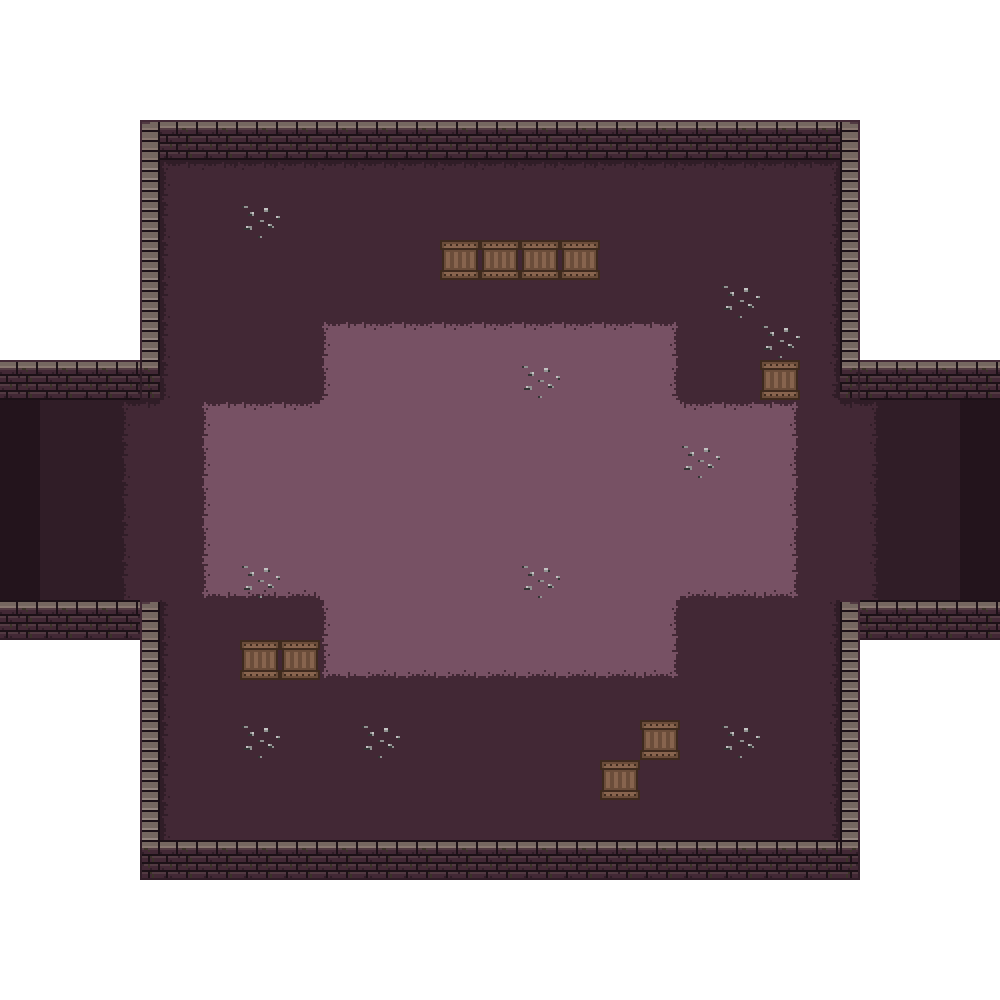
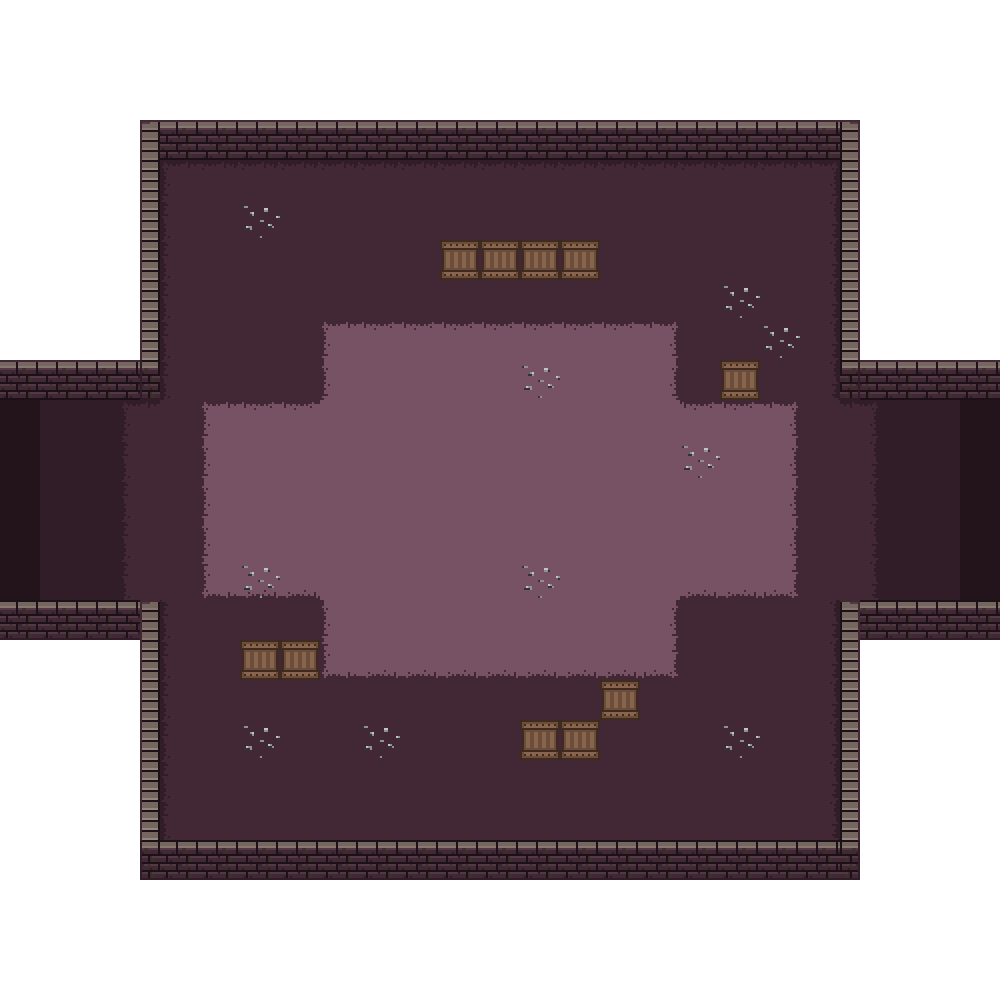
agrega hitboxes a las cajas de los mapas

Changed region(s): [[0.527, 0.682, 0.682, 0.806], [0.713, 0.341, 0.806, 0.403]]

diff --git a/core/src/main/java/mapas/SalaUD.java b/core/src/main/java/mapas/SalaUD.java
@@ -21,10 +21,15 @@ public class SalaUD extends Sala {
 		agregarObstaculo(0, 0, 160, 1000); //izquierda
 		agregarObstaculo(0, 0, 400, 160); //abajo1
 		agregarObstaculo(600, 0, 1000, 160); //abajo2
-		agregarEnemigos(new Enemigo(700, 500));
+		agregarEnemigos(new Enemigo(700, 300));
 		agregarEnemigos(new Enemigo(700, 400));
-		agregarEnemigos(new Enemigo(700, 600));
-		agregarEnemigos(new Enemigo(700, 700));
+		agregarEnemigos(new Enemigo(300, 300));
+		agregarEnemigos(new Enemigo(600, 350));
+		agregarObstaculo(400, 680, 40, 40);
+		agregarObstaculo(240, 480, 40, 40);
+		agregarObstaculo(280, 440, 40, 40);
+		agregarObstaculo(600, 240, 160, 40);
+		agregarObstaculo(720, 560, 40, 80);
 	}
 
 	@Override

diff --git a/core/src/main/java/mapas/SalaDL.java b/core/src/main/java/mapas/SalaDL.java
@@ -21,10 +21,15 @@ public class SalaDL extends Sala {
 		agregarObstaculo(600, 0, 1000, 160); //abajo2
 		agregarObstaculo(0, 0, 160, 400); //izquierda1
 		agregarObstaculo(0, 600, 160, 1000); //izquierda2
-		agregarEnemigos(new Enemigo(700, 500));
+		agregarEnemigos(new Enemigo(600, 700));
 		agregarEnemigos(new Enemigo(700, 400));
-		agregarEnemigos(new Enemigo(700, 600));
+		agregarEnemigos(new Enemigo(700, 300));
 		agregarEnemigos(new Enemigo(700, 700));
+		agregarObstaculo(240, 640, 40, 80);
+		agregarObstaculo(280, 280, 40, 40);
+		agregarObstaculo(320, 240, 40, 40);
+		agregarObstaculo(440, 720, 80, 40);
+		agregarObstaculo(720, 520, 40, 120);
 	}
 
 	@Override

diff --git a/core/src/main/java/mapas/SalaUL.java b/core/src/main/java/mapas/SalaUL.java
@@ -22,9 +22,15 @@ public class SalaUL extends Sala {
 		agregarObstaculo(0, 0, 160, 400); //izquierda1
 		agregarObstaculo(0, 600, 160, 1000); //izquierda2
 		agregarEnemigos(new Enemigo(700, 500));
-		agregarEnemigos(new Enemigo(700, 400));
+		agregarEnemigos(new Enemigo(700, 200));
 		agregarEnemigos(new Enemigo(700, 600));
-		agregarEnemigos(new Enemigo(700, 700));
+		agregarEnemigos(new Enemigo(600, 600));
+		agregarObstaculo(280, 280, 40, 40);
+		agregarObstaculo(280, 640, 40, 40);
+		agregarObstaculo(320, 680, 40, 40);
+		agregarObstaculo(600, 720, 160, 40);
+		agregarObstaculo(680, 360, 40, 80);
+		
 	}
 
 	@Override

diff --git a/core/src/main/java/util/GeneradorMazmorra.java b/core/src/main/java/util/GeneradorMazmorra.java
@@ -55,7 +55,10 @@ public class GeneradorMazmorra {
 							}
 						}
 					}while(!conecta && cont<200);
-					if(!conecta) return generar(cantSalas);
+					if(!conecta) {
+						System.out.println("demora");
+						return generar(cantSalas);
+					}
 				}else {
 					do {
 						cont++;
@@ -90,7 +93,10 @@ public class GeneradorMazmorra {
 							}
 						}
 					}while(!conecta && cont<200);
-					if(!conecta) return generar(cantSalas);
+					if(!conecta) {
+						System.out.println("demora");
+						return generar(cantSalas);
+					}
 				}
 			}
 			

diff --git a/core/src/main/java/mapas/SalaUR.java b/core/src/main/java/mapas/SalaUR.java
@@ -24,7 +24,13 @@ public class SalaUR extends Sala {
 		agregarEnemigos(new Enemigo(500, 500));
 		agregarEnemigos(new Enemigo(500, 400));
 		agregarEnemigos(new Enemigo(500, 600));
-		agregarEnemigos(new Enemigo(500, 700));
+		agregarEnemigos(new Enemigo(500, 300));
+		agregarObstaculo(640, 720, 80, 40); 
+		agregarObstaculo(280, 640, 40, 80);
+		agregarObstaculo(240, 320, 40, 80);
+		agregarObstaculo(280, 320, 40, 40);
+		agregarObstaculo(640, 240, 120, 40);
+		
 	}
 
 	@Override

diff --git a/core/src/main/java/mapas/SalaLR.java b/core/src/main/java/mapas/SalaLR.java
@@ -25,7 +25,13 @@ public class SalaLR extends Sala{
 		agregarEnemigos(new Enemigo(500, 500));
 		agregarEnemigos(new Enemigo(500, 400));
 		agregarEnemigos(new Enemigo(500, 600));
-		agregarEnemigos(new Enemigo(500, 700));
+		agregarEnemigos(new Enemigo(700, 700));
+		
+		agregarObstaculo(240, 320, 80, 40);
+		agregarObstaculo(440, 720, 160, 40);
+		agregarObstaculo(520, 240, 80, 40);
+		agregarObstaculo(600, 280, 40, 40);
+		agregarObstaculo(720, 600, 40, 40);
 	}
 
 	@Override

diff --git a/core/src/main/java/mapas/SalaDR.java b/core/src/main/java/mapas/SalaDR.java
@@ -24,7 +24,12 @@ public class SalaDR extends Sala {
 		agregarEnemigos(new Enemigo(500, 500));
 		agregarEnemigos(new Enemigo(500, 400));
 		agregarEnemigos(new Enemigo(500, 600));
-		agregarEnemigos(new Enemigo(500, 700));
+		agregarEnemigos(new Enemigo(300, 700));
+		agregarObstaculo(240, 360, 80, 80);
+		agregarObstaculo(280, 440, 40, 40);
+		agregarObstaculo(640, 280, 40, 40);
+		agregarObstaculo(680, 320, 40, 40);
+		agregarObstaculo(440, 720, 200, 40);
 	}
 
 	@Override

diff --git a/core/src/main/java/mapas/SalaFinal.java b/core/src/main/java/mapas/SalaFinal.java
@@ -18,6 +18,12 @@ public class SalaFinal extends Sala{
 		agregarObstaculo(600, 840, 1000, 1000); //arriba2
 		agregarObstaculo(0, 0, 1000, 160); //abajo
 		
+		agregarObstaculo(280, 680, 40, 80);
+		agregarObstaculo(760, 680, 40, 80);
+		agregarObstaculo(720, 720, 40, 40);
+		agregarObstaculo(240, 320, 40, 80);
+		agregarObstaculo(520, 240, 200, 40);
+		
 	}
 	public boolean revisarPortal(float x, float y) {
 		if(x>460&&x<540&&y>460&&y<540) return true;

diff --git a/core/src/main/java/personajes/Personaje.java b/core/src/main/java/personajes/Personaje.java
@@ -141,7 +141,7 @@ public abstract class Personaje {
 			if(mapa.dEntrada == Direccion.IZQUIERDA) return false;
 		}
         if (y == 0) {
-        	this.y = 700;
+        	this.y = 800;
         	if(mapa.dEntrada == Direccion.ABAJO) return false;
         }
         if (x == Recursos.ANCHO_MAPA - hitbox.width) {

diff --git a/core/src/main/java/personajes/Jugador.java b/core/src/main/java/personajes/Jugador.java
@@ -26,7 +26,7 @@ public class Jugador extends Personaje {
     
 
     public Jugador() {
-        super(Recursos.ancho/2-35, Recursos.alto/2-41, 100, 400, "gambit1.png", 70, 82, 100);
+        super(500, 500, 100, 400, "gambit1.png", 39, 39, 100);
         cargarSpriteSheets();
     }
 
